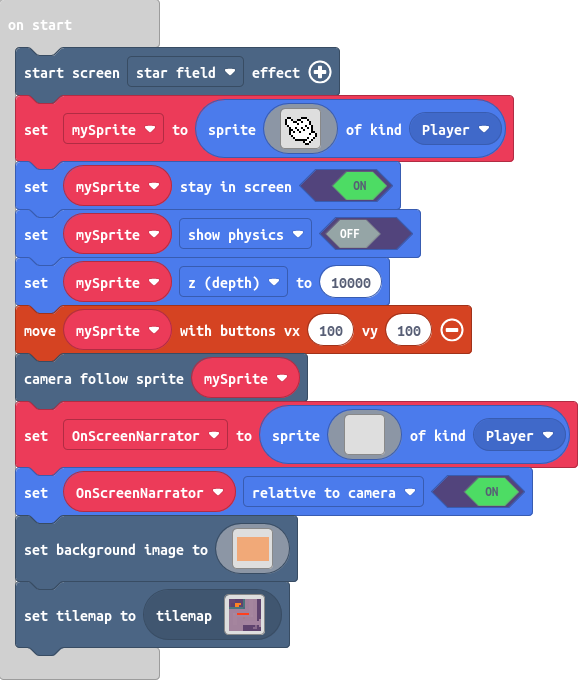
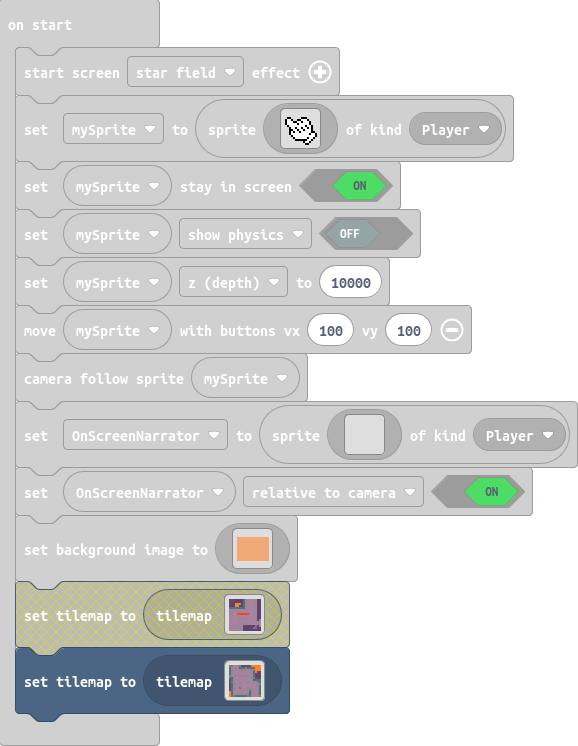
Update main.blocks, main.ts, tilemap.g.jres, tilemap.g.ts

diff --git a/tilemap.g.ts b/tilemap.g.ts
@@ -51,6 +51,63 @@ namespace myTiles {
 . . . . . . . . . . . . . . . . 
 . . . . . . . . . . . . . . . . 
 `, [myTiles.transparency16,sprites.dungeon.darkGroundNorthWest1,sprites.dungeon.floorDark0,sprites.dungeon.hazardLava1,sprites.vehicle.roadIntersection3,sprites.vehicle.roadIntersection2,sprites.vehicle.roadIntersection1,sprites.vehicle.roadTurn1,sprites.vehicle.roadIntersection4,sprites.vehicle.roadTurn4,sprites.dungeon.doorLockedSouth,sprites.dungeon.greenOuterNorth0,sprites.dungeon.stairLarge,sprites.dungeon.floorDark2,sprites.builtin.oceanSand8,sprites.swamp.swampTile16,sprites.dungeon.greenOuterWest1,sprites.dungeon.greenInnerSouthEast,myTiles.tile1,myTiles.tile3,myTiles.tile4,myTiles.tile5], TileScale.Sixteen);
+            case "level3":
+            case "level3":return tiles.createTilemap(hex`1000100000000000000000000000000000000000000000000000000000000000000000000000000000000000000000000000000000000000000000000000000000000000000000000000000000000000000000000000000000000000000000000000000000000000000000000000000000000000000000000000000000000000000000000000000000000000000000000000000000000000000000000000000000000000000000000000000000000000000000000000000000000000000000000000000000000000000000000000000000000000000000000000000000000000000000000000000000000000000000000000000000000000000000000000000000000000`, img`
+. . . . . . . . . . . . . . . . 
+. . . . . . . . . . . . . . . . 
+. . . . . . . . . . . . . . . . 
+. . . . . . . . . . . . . . . . 
+. . . . . . . . . . . . . . . . 
+. . . . . . . . . . . . . . . . 
+. . . . . . . . . . . . . . . . 
+. . . . . . . . . . . . . . . . 
+. . . . . . . . . . . . . . . . 
+. . . . . . . . . . . . . . . . 
+. . . . . . . . . . . . . . . . 
+. . . . . . . . . . . . . . . . 
+. . . . . . . . . . . . . . . . 
+. . . . . . . . . . . . . . . . 
+. . . . . . . . . . . . . . . . 
+. . . . . . . . . . . . . . . . 
+`, [myTiles.transparency16], TileScale.Sixteen);
+            case "level4":
[1 lines of base64/hex data omitted]
+2 2 . . . 2 2 2 2 2 2 2 2 2 2 2 
+2 . . . . 2 2 2 2 2 2 2 2 2 2 2 
+2 . . . . . . . . . . . 2 2 2 2 
+2 . . . . . . . . . . . 2 2 2 2 
+2 . . . . . . . . . . . 2 2 2 2 
+2 . . . . . . . . . . . 2 2 2 2 
+2 2 . . . . . . . . . . 2 2 2 2 
+2 2 . . . . . . . . . . 2 2 2 2 
+2 2 . . . . . . . . . . . . 2 2 
+2 2 . . . . . . . . . . . . . 2 
+2 2 . . . . . . . . . . . . . 2 
+2 2 . . . 2 . . . . . . . . . 2 
+2 2 . . . . . . . . 2 . . . . 2 
+2 2 . . . . . . . . 2 . . . . 2 
+2 2 . . . . . . . . 2 . . . . 2 
+2 2 2 2 2 2 2 2 2 2 2 . . . . 2 
+`, [myTiles.transparency16,sprites.vehicle.roadIntersection2,sprites.vehicle.roadTurn3,sprites.vehicle.roadIntersection1,sprites.vehicle.roadTurn2,sprites.vehicle.roadIntersection4,sprites.vehicle.roadTurn4,sprites.vehicle.roadIntersection3,sprites.vehicle.roadTurn1,sprites.dungeon.floorDark0,sprites.dungeon.greenOuterNorthEast,sprites.dungeon.greenOuterEast0,sprites.dungeon.greenOuterEast1,sprites.dungeon.greenOuterNorth0,sprites.dungeon.greenOuterSouthEast,sprites.dungeon.greenInnerSouthWest,sprites.dungeon.greenOuterSouth1,sprites.dungeon.greenInnerNorthEast,sprites.dungeon.greenOuterWest1,sprites.dungeon.greenOuterWest0,sprites.dungeon.greenOuterSouthWest,sprites.dungeon.darkGroundNorth,sprites.dungeon.darkGroundEast,sprites.dungeon.darkGroundNorthEast0,sprites.dungeon.darkGroundCenter,sprites.dungeon.darkGroundWest,sprites.dungeon.darkGroundSouthWest0,sprites.dungeon.hazardLava1,sprites.dungeon.hazardLava0,sprites.dungeon.darkGroundNorthWest0,sprites.dungeon.darkGroundSouth,sprites.dungeon.darkGroundSouthEast0,sprites.dungeon.chestOpen,sprites.dungeon.chestClosed,sprites.dungeon.greenOuterWest2,sprites.dungeon.greenOuterEast2,sprites.dungeon.greenOuterSouth2,sprites.dungeon.greenOuterNorth2,sprites.dungeon.floorDark4,sprites.dungeon.floorDark1], TileScale.Sixteen);
+            case "level5":
+            case "level5":return tiles.createTilemap(hex`1000100000000000000000000000000000000000000000000000000000000000000000000000000000000000000000000000000000000000000000000000000000000000000000000000000000000000000000000000000000000000000000000000000000000000000000000000000000000000000000000000000000000000000000000000000000000000000000000000000000000000000000000000000000000000000000000000000000000000000000000000000000000000000000000000000000000000000000000000000000000000000000000000000000000000000000000000000000000000000000000000000000000000000000000000000000000000`, img`
+. . . . . . . . . . . . . . . . 
+. . . . . . . . . . . . . . . . 
+. . . . . . . . . . . . . . . . 
+. . . . . . . . . . . . . . . . 
+. . . . . . . . . . . . . . . . 
+. . . . . . . . . . . . . . . . 
+. . . . . . . . . . . . . . . . 
+. . . . . . . . . . . . . . . . 
+. . . . . . . . . . . . . . . . 
+. . . . . . . . . . . . . . . . 
+. . . . . . . . . . . . . . . . 
+. . . . . . . . . . . . . . . . 
+. . . . . . . . . . . . . . . . 
+. . . . . . . . . . . . . . . . 
+. . . . . . . . . . . . . . . . 
+. . . . . . . . . . . . . . . . 
+`, [myTiles.transparency16], TileScale.Sixteen);
         }
         return null;
     })

diff --git a/main.ts b/main.ts
@@ -146,4 +146,4 @@ scene.setBackgroundImage(img`
     4444444444444444444444444444444444444444444444444444444444444444444444444444444444444444444444444444444444444444444444444444444444444444444444444444444444444444
     4444444444444444444444444444444444444444444444444444444444444444444444444444444444444444444444444444444444444444444444444444444444444444444444444444444444444444
     `)
-tiles.setCurrentTilemap(tilemap`level2`)
+tiles.setCurrentTilemap(tilemap`level4`)
